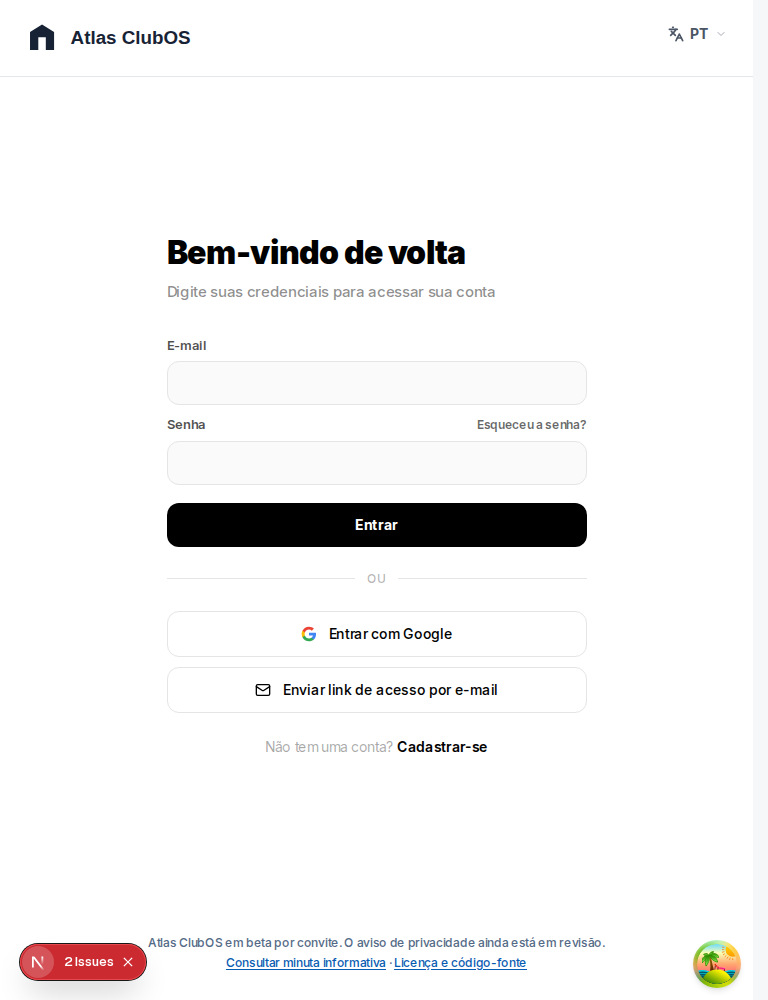
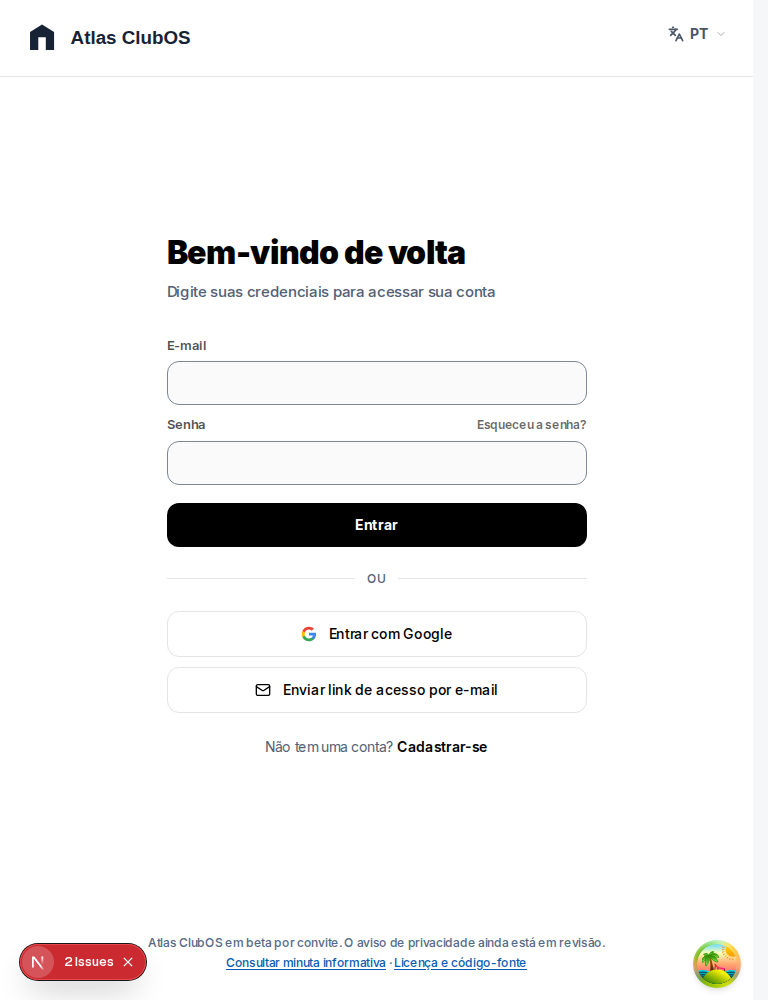
fix(campus): resolve audited contrast and accessible link names

Changed region(s): [[0.2188, 0.279, 0.6562, 0.31], [0.3438, 0.744, 0.5, 0.775], [0.4688, 0.558, 0.5, 0.589]]

diff --git a/apps/web/app/auth/login/login.tsx b/apps/web/app/auth/login/login.tsx
@@ -528,7 +528,7 @@ const LoginClient = (props: LoginClientProps) => {
                 <h1 className="text-[28px] md:text-[32px] font-black text-black tracking-tight leading-tight">
                   {t('auth.mfa_title', { defaultValue: 'Two-step verification' })}
                 </h1>
-                <p className="mt-2 text-black/45 text-[15px] font-medium">
+                <p className={process.env.NEXT_PUBLIC_ATLAS_CLUBOS_BRAND === 'true' ? 'mt-2 text-[#526174] text-[15px] font-medium' : 'mt-2 text-black/45 text-[15px] font-medium'}>
                   {useBackupCode
                     ? t('auth.mfa_subtitle_backup', { defaultValue: 'Enter one of the backup codes you saved.' })
                     : t('auth.mfa_subtitle', { defaultValue: 'Enter the 6-digit code from your authenticator app.' })}
@@ -612,7 +612,7 @@ const LoginClient = (props: LoginClientProps) => {
                         turnstileRef.current?.reset()
                       }}
                       disabled={mfaSubmitting}
-                      className="text-sm text-black/35 hover:text-black/60 disabled:opacity-50"
+                      className={process.env.NEXT_PUBLIC_ATLAS_CLUBOS_BRAND === 'true' ? 'text-sm text-[#526174] hover:text-black/60 disabled:opacity-50' : 'text-sm text-black/35 hover:text-black/60 disabled:opacity-50'}
                     >
                       {t('auth.mfa_back_to_login', { defaultValue: 'Back to sign in' })}
                     </button>
@@ -634,7 +634,7 @@ const LoginClient = (props: LoginClientProps) => {
                       <h2 className="mt-4 text-lg font-bold text-black">
                         {t('auth.magic_sent_title', { defaultValue: 'Check your email' })}
                       </h2>
-                      <p className="mt-2 text-black/45 text-[15px] font-medium max-w-sm">
+                      <p className={process.env.NEXT_PUBLIC_ATLAS_CLUBOS_BRAND === 'true' ? 'mt-2 text-[#526174] text-[15px] font-medium max-w-sm' : 'mt-2 text-black/45 text-[15px] font-medium max-w-sm'}>
                         {t('auth.magic_sent_body', {
                           defaultValue:
                             'If an account exists for {{email}}, we just sent it a secure link to sign in. It expires shortly, so use it soon.',
@@ -650,7 +650,7 @@ const LoginClient = (props: LoginClientProps) => {
                           setMagicSent(false)
                           setMagicError('')
                         }}
-                        className="text-sm text-black/35 hover:text-black/60"
+                        className={process.env.NEXT_PUBLIC_ATLAS_CLUBOS_BRAND === 'true' ? 'text-sm text-[#526174] hover:text-black/60' : 'text-sm text-black/35 hover:text-black/60'}
                       >
                         {t('auth.magic_back_to_login', { defaultValue: 'Back to sign in' })}
                       </button>
@@ -658,7 +658,7 @@ const LoginClient = (props: LoginClientProps) => {
                   </>
                 ) : (
                   <>
-                    <p className="mt-2 text-black/45 text-[15px] font-medium">
+                    <p className={process.env.NEXT_PUBLIC_ATLAS_CLUBOS_BRAND === 'true' ? 'mt-2 text-[#526174] text-[15px] font-medium' : 'mt-2 text-black/45 text-[15px] font-medium'}>
                       {t('auth.magic_subtitle', {
                         defaultValue:
                           'Enter your email and we’ll send you a link that signs you in, no password needed.',
@@ -720,7 +720,7 @@ const LoginClient = (props: LoginClientProps) => {
                           setMagicError('')
                         }}
                         disabled={magicSubmitting}
-                        className="text-sm text-black/35 hover:text-black/60 disabled:opacity-50"
+                        className={process.env.NEXT_PUBLIC_ATLAS_CLUBOS_BRAND === 'true' ? 'text-sm text-[#526174] hover:text-black/60 disabled:opacity-50' : 'text-sm text-black/35 hover:text-black/60 disabled:opacity-50'}
                       >
                         {t('auth.magic_use_password', {
                           defaultValue: 'Sign in with a password instead',
@@ -734,7 +734,7 @@ const LoginClient = (props: LoginClientProps) => {
               <>
             {/* Header */}
             <h1 className="text-[28px] md:text-[32px] font-black text-black tracking-tight leading-tight">{t('auth.welcome_back')}</h1>
-            <p className="mt-2 text-black/45 text-[15px] font-medium">
+            <p className={process.env.NEXT_PUBLIC_ATLAS_CLUBOS_BRAND === 'true' ? 'mt-2 text-[#526174] text-[15px] font-medium' : 'mt-2 text-black/45 text-[15px] font-medium'}>
               {passwordAllowed
                 ? t('auth.enter_credentials')
                 : t('auth.choose_sign_in_method', {
@@ -761,7 +761,7 @@ const LoginClient = (props: LoginClientProps) => {
                       onBlur={formik.handleBlur}
                       value={formik.values.email}
                       type="email"
-                      className="box-border w-full bg-neutral-50 text-black rounded-lg px-4 border border-neutral-200 inline-flex h-[44px] appearance-none items-center focus:outline-none focus:ring-2 focus:ring-black/5 focus:border-neutral-400 transition-all placeholder:text-black/25 text-sm"
+                      className={process.env.NEXT_PUBLIC_ATLAS_CLUBOS_BRAND === 'true' ? 'box-border w-full bg-neutral-50 text-black rounded-lg px-4 border border-[#7c8898] inline-flex h-[44px] appearance-none items-center focus:outline-none focus:ring-2 focus:ring-black/5 focus:border-neutral-400 transition-all placeholder:text-[#526174] text-sm' : 'box-border w-full bg-neutral-50 text-black rounded-lg px-4 border border-neutral-200 inline-flex h-[44px] appearance-none items-center focus:outline-none focus:ring-2 focus:ring-black/5 focus:border-neutral-400 transition-all placeholder:text-black/25 text-sm'}
                     />
                   </Form.Control>
                 </FormField>
@@ -789,7 +789,7 @@ const LoginClient = (props: LoginClientProps) => {
                       value={formik.values.password}
                       type="password"
                       autoComplete="current-password"
-                      className="box-border w-full bg-neutral-50 text-black rounded-lg px-4 border border-neutral-200 inline-flex h-[44px] appearance-none items-center focus:outline-none focus:ring-2 focus:ring-black/5 focus:border-neutral-400 transition-all placeholder:text-black/25 text-sm"
+                      className={process.env.NEXT_PUBLIC_ATLAS_CLUBOS_BRAND === 'true' ? 'box-border w-full bg-neutral-50 text-black rounded-lg px-4 border border-[#7c8898] inline-flex h-[44px] appearance-none items-center focus:outline-none focus:ring-2 focus:ring-black/5 focus:border-neutral-400 transition-all placeholder:text-[#526174] text-sm' : 'box-border w-full bg-neutral-50 text-black rounded-lg px-4 border border-neutral-200 inline-flex h-[44px] appearance-none items-center focus:outline-none focus:ring-2 focus:ring-black/5 focus:border-neutral-400 transition-all placeholder:text-black/25 text-sm'}
                     />
                   </Form.Control>
                 </FormField>
@@ -825,7 +825,7 @@ const LoginClient = (props: LoginClientProps) => {
                     <div className="w-full border-t border-neutral-200" />
                   </div>
                   <div className="relative flex justify-center text-sm">
-                    <span className="px-3 text-black/30 bg-white text-xs font-medium">{t('common.or')}</span>
+                    <span className={process.env.NEXT_PUBLIC_ATLAS_CLUBOS_BRAND === 'true' ? 'px-3 text-[#526174] bg-white text-xs font-medium' : 'px-3 text-black/30 bg-white text-xs font-medium'}>{t('common.or')}</span>
                   </div>
                 </div>
               )}
@@ -882,7 +882,7 @@ const LoginClient = (props: LoginClientProps) => {
               )}
 
               {/* Sign Up Link */}
-              <p className="text-center text-sm text-black/35 mt-6">
+              <p className={process.env.NEXT_PUBLIC_ATLAS_CLUBOS_BRAND === 'true' ? 'text-center text-sm text-[#526174] mt-6' : 'text-center text-sm text-black/35 mt-6'}>
                 {t('auth.no_account')}{' '}
                 <Link href="/signup" className="text-black font-semibold hover:underline">
                   {t('auth.sign_up')}

diff --git a/apps/web/components/Objects/Thumbnails/CourseThumbnail.tsx b/apps/web/components/Objects/Thumbnails/CourseThumbnail.tsx
@@ -184,7 +184,7 @@ function CourseThumbnail({ course, orgslug, customLink, isDashboard = false, isS
         isDashboard={isDashboard}
       />
 
-      <Link prefetch={false} href={courseLink} onClick={handleCardOpen} className="block relative aspect-video overflow-hidden bg-gray-50">
+      <Link prefetch={false} href={courseLink} onClick={handleCardOpen} aria-label={course.name} className="block relative aspect-video overflow-hidden bg-gray-50">
         {/* Hidden img gives the browser a real resource hint so it can fetch the background-image early as an LCP candidate */}
         {isPriority && (
            
@@ -266,7 +266,7 @@ function CourseThumbnail({ course, orgslug, customLink, isDashboard = false, isS
             )}
             
             {course.update_date && (
-              <span className="text-[9px] font-bold text-gray-400 uppercase tracking-widest">
+              <span className="text-[9px] font-bold text-gray-600 uppercase tracking-widest">
                 {formatDate(course.update_date, i18n.language, { dateStyle: undefined, month: 'short', day: 'numeric' })}
               </span>
             )}
@@ -276,7 +276,7 @@ function CourseThumbnail({ course, orgslug, customLink, isDashboard = false, isS
             prefetch={false}
             href={courseLink}
             onClick={handleCardOpen}
-            className="text-[10px] font-bold text-gray-400 hover:text-gray-900 transition-colors uppercase tracking-wider"
+            className="text-[10px] font-bold text-gray-600 hover:text-gray-900 transition-colors uppercase tracking-wider"
           >
             {atlasBrand ? (course.public ? 'Acesso público' : 'Acesso restrito') : t('courses.start_learning')}
           </Link>
